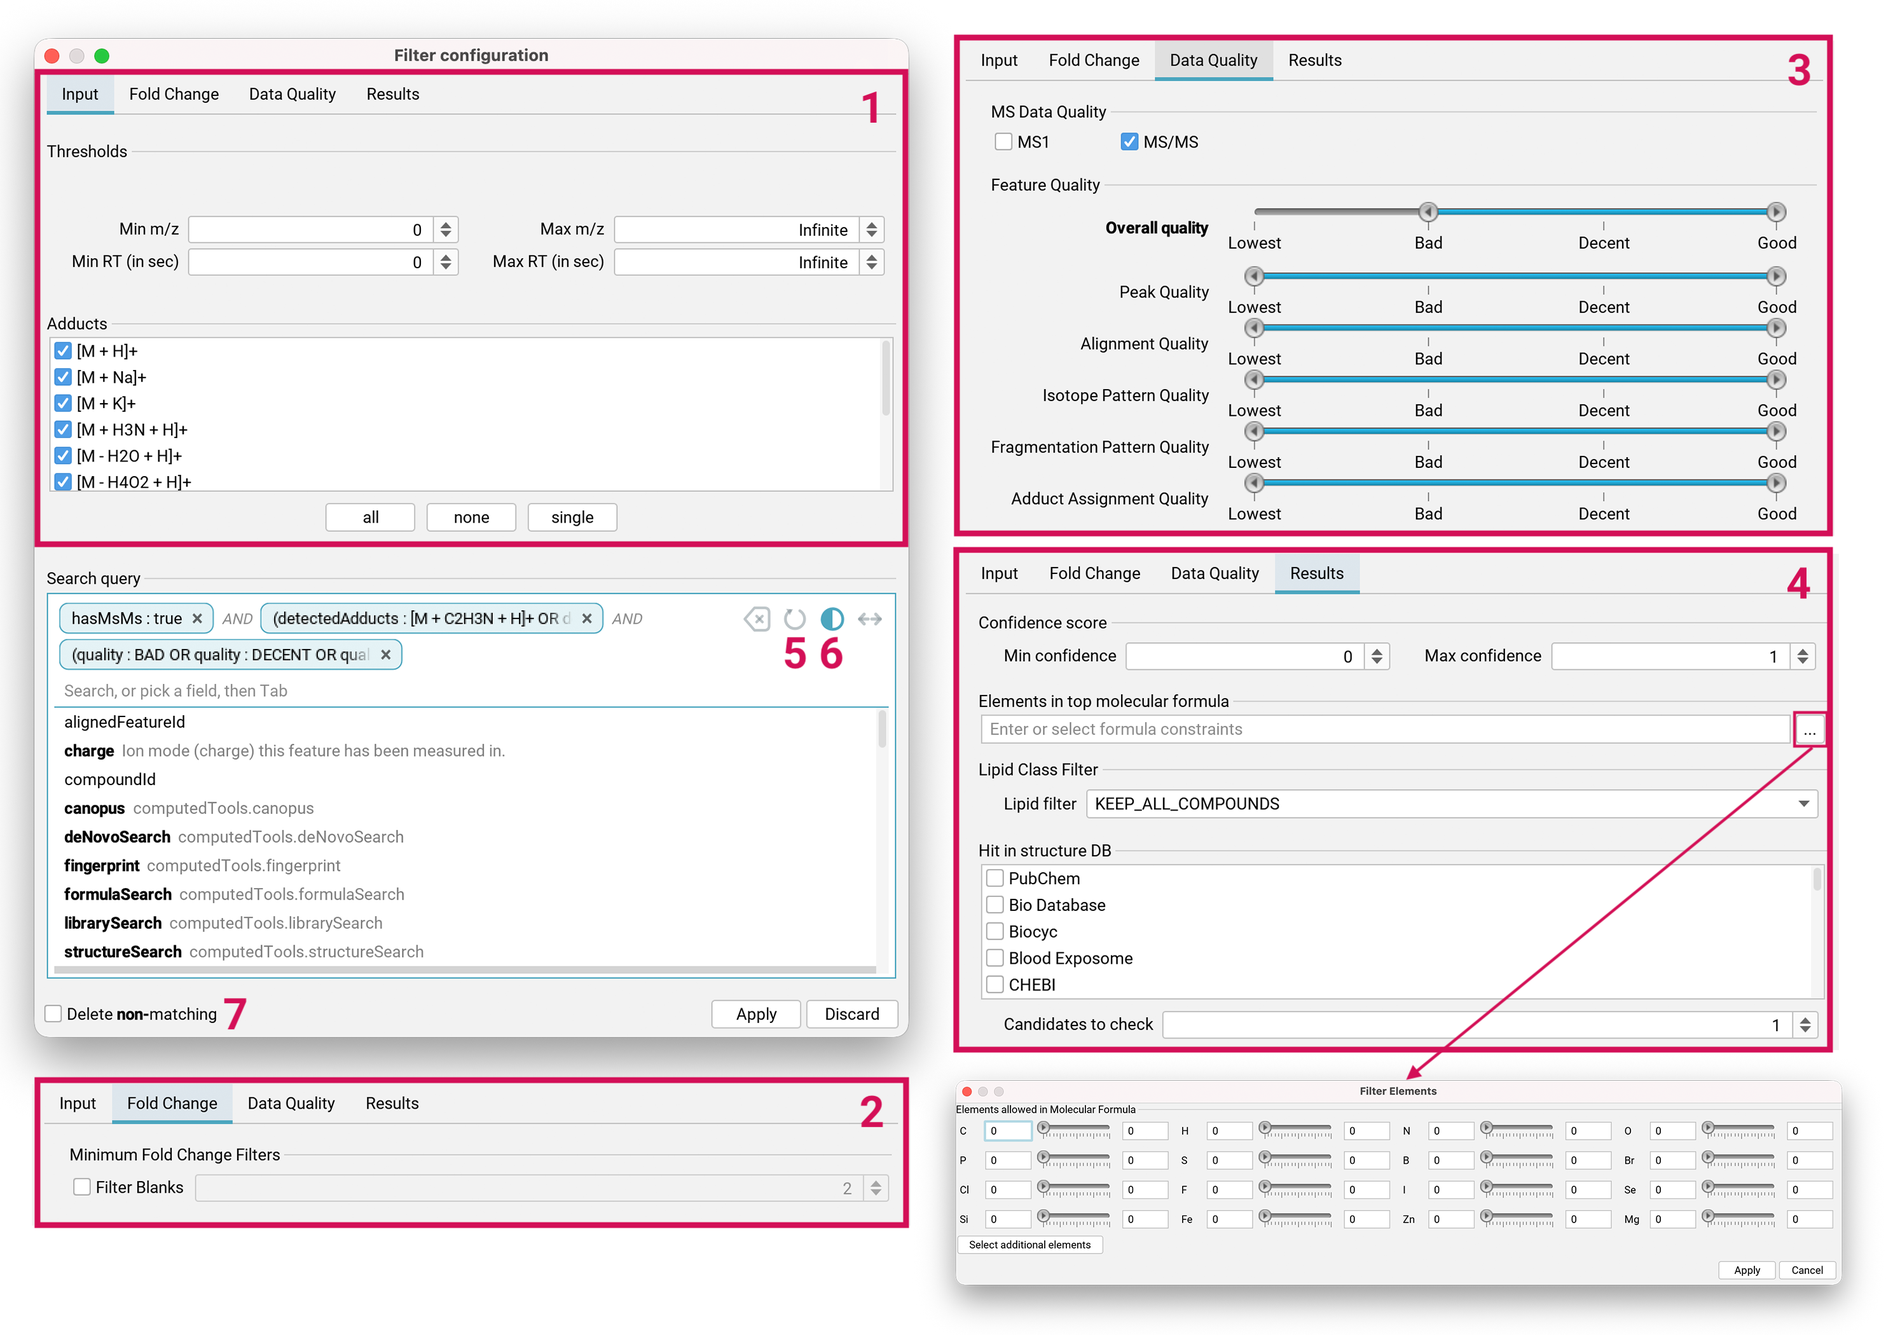
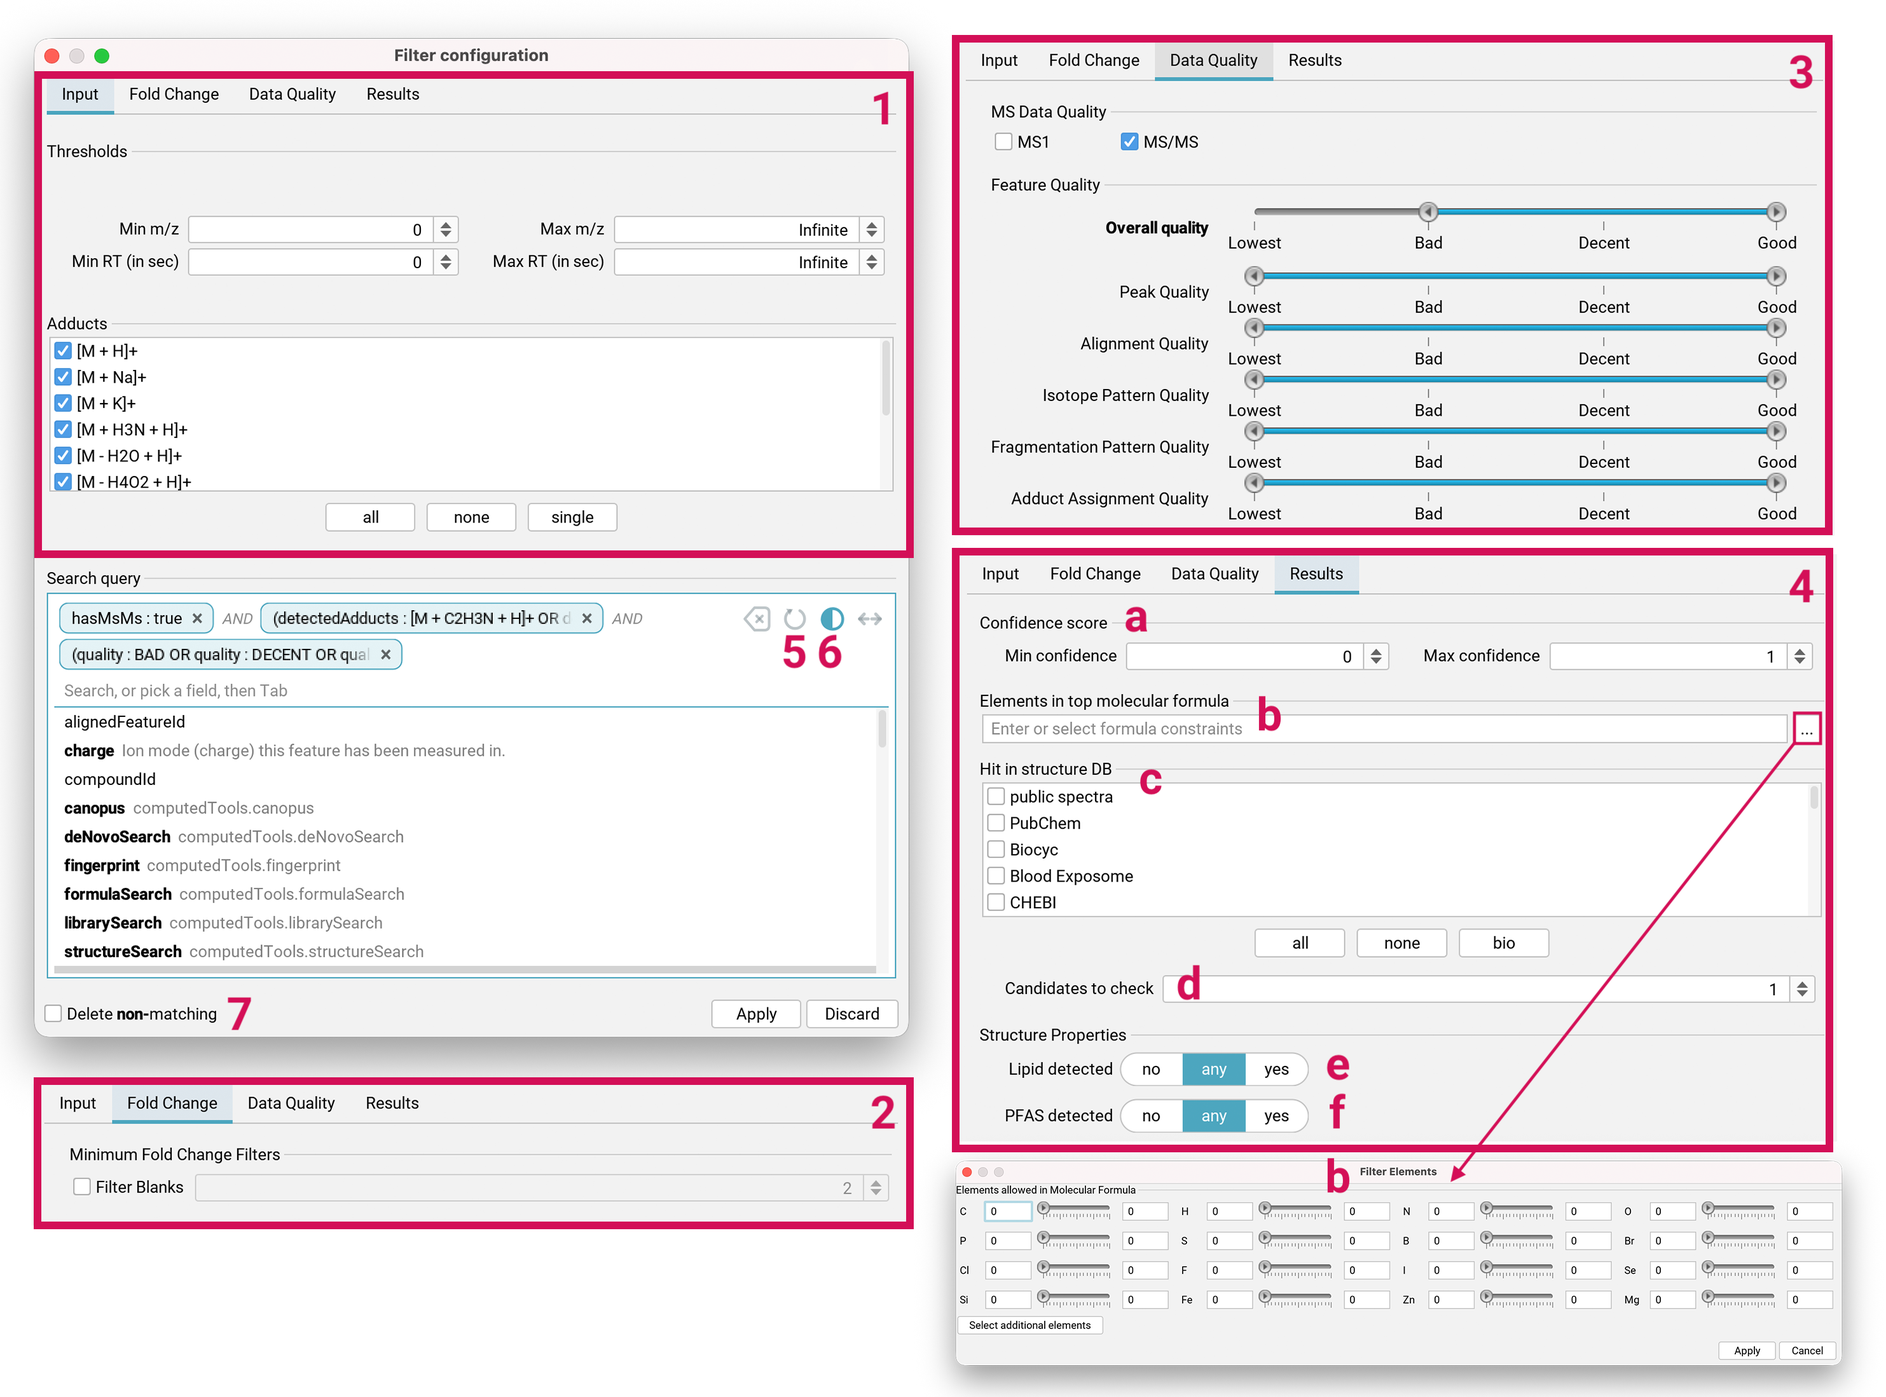
Some minor GUI updates following a review of the changelog

diff --git a/docs/_pages/gui.md b/docs/_pages/gui.md
@@ -94,7 +94,7 @@ When importing multiple `.mzml` (or `.mzxml`) at once, an import dialog will ope
 
 LC-MS runs are [pre-processed automatically]({{ "/io/#lcms-runs" | relative_url }}): SIRIUS performs feature detection and alignment using MS/MS spectra, assigns adducts and in-source losses to features via adduct detection, and [screens the raw data for strong polyfluorination signatures]({{ "/methods-background/#pfas-detection" | relative_url }}).
 
-## Sort and filter {#sort-filter}
+## Sort, filter, search {#sort-filter}
 
 To sort the feature list, use right-click to open the <span style="color:#d40f57">**[sort]**</span> dialog below.
 
@@ -106,8 +106,11 @@ used for sorting. For more details, see the [confidence modes]({{ "/methods-back
 
 <img src="{{ "/assets/images/filter-search.png" | relative_url }}">
 
-By default, the feature list is filtered to hide MS1-only, poor-quality, and multimeric features <span style="color:#d40f57">**[1]**</span>. To view all features, clear the default filter <span style="color:#d40f57">**[2]**</span>; you can restore it anytime in the [`Filter configuration` dialog]({{"/gui/#filter-dialog" | relative_url}}) <span style="color:#d40f57">**[7]**</span>.
-For fine-grained filter control, enter criteria directly into the search field <span style="color:#d40f57">**[3]**</span> or use the `Filter configuration` dialog. As you type, auto-suggestions will appear <span style="color:#d40f57">**[4]**</span>, along with syntax instructions inside the search bar. You can invert your filter  <span style="color:#d40f57">**[6]**</span> to display non-matching features, or copy your current query to the clipboard <span style="color:#d40f57">**[5]**</span>.
+By default, the feature list is filtered to hide MS1-only, poor-quality, and multimeric features <span style="color:#d40f57">**[1]**</span>. To view all features, clear the default filter <span style="color:#d40f57">**[2]**</span>; you can restore it anytime in the standard [`Filter configuration` dialog]({{"/gui/#filter-dialog" | relative_url}}) which is accessible via the funnel icon <span style="color:#d40f57">**[7]**</span>.
+For fine-grained filter control, enter criteria directly into the smart query bar <span style="color:#d40f57">**[3]**</span> located above the feature list or use the `Filter configuration` dialog. Manual panel filters and typed search queries merge into a single filter.
+The smart query bar offers auto-complete suggestions <span style="color:#d40f57">**[4]**</span> for fields, operators, and known values (e.g., adduct spellings, lipid class abbreviations, compound class ontologies, and tags), along with syntax instructions. Press `Enter` to apply.  You can invert your filter  <span style="color:#d40f57">**[6]**</span> to display non-matching features, or copy your current query to the clipboard <span style="color:#d40f57">**[5]**</span>.
+
+The search index builds automatically during [data import]({{ "/gui/#data-import" | relative_url }}) and can be rebuilt anytime from [Project Settings]({{ "gui/#settings" | relative_url }}) if out of sync. Projects created with older SIRIUS versions automatically migrate and index upon first open.
 
 ### Filter configuration dialog {#filter-dialog}
 
@@ -116,10 +119,14 @@ For fine-grained filter control, enter criteria directly into the search field <
 - In the `Input` tab <span style="color:#d40f57">**[1]**</span>, aligned features can be filtered by mass range and retention time range, as well as by specific detected adducts. 
 - In the `Fold Change` tab <span style="color:#d40f57">**[2]**</span>, you can hide signals that don't exceed a set threshold (e.g., 2x the blank level), effectively eliminating background noise and instrument. This filter requires [sample type assignment]({{"/gui/#lcms-import" | relative_url}}).
 - In the `Data Quality` tab <span style="color:#d40f57">**[3]**</span>, you can refine the preset quality filter.
-- In the `Results` tab <span style="color:#d40f57">**[4]**</span>, you can filter for confidence score range, specific element constraints in either the neutral molecular formula or precursor formula,
- as well as by detected lipid classes. If structure database results are available, you can filter for hits in specific structure databases.  `Candidates to check` allows you to specify the number of top candidates to consider.
+- In the `Results` tab <span style="color:#d40f57">**[4]**</span>, you can filter for
+  - confidence score range <span style="color:#d40f57">**[a]**</span>
+  - specific element constraints in the top molecular formula <span style="color:#d40f57">**[b]**</span>
+  - hits in specific structure databases (only if structure database search results are available) <span style="color:#d40f57">**[c]**</span>;  `Candidates to check` allows you to specify the number of top candidates to consider <span style="color:#d40f57">**[d]**</span>
+  - detected lipids <span style="color:#d40f57">**[e]**</span>; three-state selector (only lipids, no lipids, both)
+  - detected PFAS <span style="color:#d40f57">**[f]**</span>; three-state selector (only PFAS, no PFAS, both)
 
-If required, you can restore the default filter options <span style="color:#d40f57">**[5]**</span>. For all filters, you can also choose to invert the filter <span style="color:#d40f57">**[6]**</span>, and whether you want to delete all **non**-matching compounds <span style="color:#d40f57">**[7]**</span>.
+If required, you can restore the default filter options <span style="color:#d40f57">**[5]**</span>. For all filters, you can also choose to invert the filter <span style="color:#d40f57">**[6]**</span>. Deleting all **non**-matching features from a project is possible in a single step <span style="color:#d40f57">**[7]**</span>.
 
 ## Custom structure databases {#custom-databases}
 
@@ -140,7 +147,7 @@ For an individual structure database, you can either
 - or even [create candidate structures de novo](#MSNovelist-denovo-structure) (from the molecular fingerprint) when dealing with "unknown unknowns" or poorly represented analyte classes.
 
 
-### Import of custom structure databases and spectral libraries {#custom-database-import}
+### Import and export of custom structure databases and spectral libraries {#custom-database-import}
 
 Custom structure databases and spectral libraries can be added via the `Databases` dialog, accessible via the
 top center of the GUI ribbon. SIRIUS allows you to import custom structure databases and spectral libraries. Any spectral library you import also functions as a structure database. [Learn more about custom database import and supported file formats here]({{ "/io/#custom-dbs" | relative_url}}).
@@ -154,34 +161,32 @@ top center of the GUI ribbon. SIRIUS allows you to import custom structure datab
   <figcaption>Custom database dialog.</figcaption>
 </figure>
 
-Custom databases are stored as files with the `.siriusdb` extension. 
-If you already have a database with this format on your local machine, you can add it to SIRIUS by clicking the 
-`Add existing Database` button <span style="color:#d40f57">**[1]**</span> on the bottom right. To create a new custom database,
-click the `Create custom Database` button <span style="color:#d40f57">**[2]**</span>.
-You can also download a curated spectral database <span style="color:#d40f57">**[3]**</span> with public spectra from GNPS, MassBank and MsnLib for [spectral library matching](#spectral-library-matching).
+Custom databases are saved locally as `.siriusdb` files. 
+To import an existing database file, click `Add existing Database` <span style="color:#d40f57">**[1]**</span>. 
+To set up a new one, click `Create custom database` <span style="color:#d40f57">**[2]**</span>. 
+You can also download a curated spectral database <span style="color:#d40f57">**[3]**</span> containing public spectra from GNPS, MassBank, and MsnLib for [spectral library matching](#spectral-library-matching).
 
-To create a custom database, enter a name for the database <span style="color:#d40f57">**[4]**</span> (maximum length: 15 characters) that is used within SIRIUS. 
-Specify the file name for the database, ensuring it ends with `.siriusdb` <span style="color:#d40f57">**[5]**</span>. 
-Choose a valid, writeable path on your local machine to store the database <span style="color:#d40f57">**[6]**</span>.
-Adjust the buffer size <span style="color:#d40f57">**[7]**</span> to control how many structures or spectra should be kept in memory. This can be increased when importing large files on a faster machine.
-Drag and drop files or directories containing structure/spectra files to the input area <span style="color:#d40f57">**[8]**</span>, or use the `+` button to browse your file system.
+Loaded custom databases can be modified using the pencil icon <span style="color:#d40f57">**[4]**</span> or deleted using the minus (-) icon <span style="color:#d40f57">**[5]**</span>. 
+Use the database viewer <span style="color:#d40f57">**[6]**</span> to inspect molecular structures. 
+Export databases as TSV or SDF files—complete with external database links and generated transformation products <span style="color:#d40f57">**[7]**</span>. 
+Transformation products can be generated for any database using the [BioTransformer integration](#BioTransformer) <span style="color:#d40f57">**[f]**</span> (when creating a new database) or [custom reaction workflows](#reaction-workflows) <span style="color:#d40f57">**[8]**</span>.
 
-Imported databases can be deleted or modified using the `-` <span style="color:#d40f57">**[10]**</span> or pencil <span style="color:#d40f57">**[11]**</span> button, respectively. Databases can also be exported as TSV or SDF files including the generated biotransformations <span style="color:#d40f57">**[12]**</span> and links to external databases.
+To create a custom database, specify an internal SIRIUS display name <span style="color:#d40f57">**[a]**</span> (up to 15 characters), set a file name ending in `.siriusdb` <span style="color:#d40f57">**[b]**</span>, and choose a writable local directory <span style="color:#d40f57">**[c]**</span>. You can adjust the buffer size <span style="color:#d40f57">**[d]**</span> to change memory allocation for structures and spectra (increasing this value is recommended when importing large files on faster machines). Finally, load your data by dropping files or folders into the input region <span style="color:#d40f57">**[e]**</span> or clicking `+` to select them manually.
 
 **Please note that you have to be logged in to your SIRIUS account to import custom databases.**
 
 
 ### Creating bio-transformations {#BioTransformer}
 
-SIRIUS integrates [BioTransformer 3.0](https://biotransformer.ca/) <span style="color:#d40f57">**[9]**</span> ([Wishart  et al., Nucleic Acids Res, 2022](https://doi.org/10.1093/nar/gkac313)) for generating transformation products. BioTransformer is can be applied to custom structure databases during import. 
+SIRIUS integrates [BioTransformer 3.0](https://biotransformer.ca/) <span style="color:#d40f57">**[f]**</span> ([Wishart  et al., Nucleic Acids Res, 2022](https://doi.org/10.1093/nar/gkac313)) for generating transformation products. BioTransformer is can be applied to custom structure databases during import. 
 For detailed explanations of all options, please consult the official [BioTransformer documentation](https://biotransformer.ca/help). Here is only a selection:
 
-- `Metabolic Transformation` <span style="color:#d40f57">**[a]**</span>:  Coverage Options: 
+- `Metabolic Transformation`:  Coverage Options: 
   - `Phase 1 (CYP450)`: Focuses on cytochrome P450-mediated transformations. 
   - `EC-based`: Predicts transformations based on Enzyme Commission (EC) numbers. 
   - ...
   - `AllHuman`: Predicts all possible human metabolites from any applicable reaction (oxidation, reduction, deconjugation) at each step.
-- `Number of Reaction Iterations` <span style="color:#d40f57">**[c]**</span>: allows you to specify the number of transformation steps for the prediction. It is applicable for EC-based, CYP450, Phase II, and Environmental microbial biotransformers. The default value is typically 1.
+- `Number of Reaction Iterations`: allows you to specify the number of transformation steps for the prediction. It is applicable for EC-based, CYP450, Phase II, and Environmental microbial biotransformers. The default value is typically 1.
 
 ### Reaction Workflows {#reaction-workflows}
 
@@ -195,7 +200,7 @@ For detailed explanations of all options, please consult the official [BioTransf
 
 You can define custom chemical reactions and apply them to your custom structure databases.
 Select an imported custom database and open the Reaction Sketcher (gear symbol). 
-The left panel displays a list of saved reactions <span style="color:#d40f57">**[1]**</span>. Drag and drop reactions into the central workspace <span style="color:#d40f57">**[2]**</span> to build a reaction workflow.
+The left panel displays the built-in reaction library  <span style="color:#d40f57">**[1]**</span>. Drag and drop reactions into the central workspace <span style="color:#d40f57">**[2]**</span> to build a reaction workflow.
 A reaction workflow consists of sequential rows <span style="color:#d40f57">**[3]-[5]**</span> that dictate how transformations are applied.
 
 - **Row-Level Execution:** A single row can contain multiple reactions <span style="color:#d40f57">**[3]**</span>. The software applies all reactions within a row concurrently to the input structures and saves the resulting transformation products.
@@ -790,9 +795,7 @@ The selected library match is displayed as mirror spectrum, allowing for a direc
 For more information on spectral library searches in SIRIUS, please refer to the sections on [spectral library matching]({{ "/methods-background/#spectral-library-search" | relative_url }}) and [Import of Custom Structure and Spectra Databases](#custom-database-import).
 
 #### Activate spectral library results tab {#activate-library-matches-tab}
-<img src="{{ "/assets/images/activate-spectral-matches-tab.png" | relative_url }}" width="400">
-
-To additionally activate the `Library Matches` tab, go to `Settings` and check `Show "Library Matches" tab`. You will get a warning dialogue explaining the spectral library search settings:
+To additionally activate the `Library Matches` tab, [go to `Settings`](#settings) and check `Show "Library Matches" tab`. You will get a warning dialogue explaining the spectral library search settings:
 - A spectral library is also a molecular structure database. ANY hit in the spectral library can also be found via CSI:FingerID structure database search.
 - Since structure database results depend on the selected molecular formula, SIRIUS ensures that molecular structures with a formula corresponding to a good spectral library hit are considered - even if this molecular formula receives a low score, i.e. molecular structures of well-matching reference spectra are automatically included in the structure database search.
 - Structure database search is only performed on [databases selected by the user](#CSIFingerID-structure). To ensure that all your spectral libraries are considered by CSI:FingerID, select these libraries (databases) in the structure database search step.
@@ -898,26 +901,46 @@ You can access the settings dialog by clicking the `Settings` button at the top 
 
 <img src="{{ "/assets/images/settings.png" | relative_url }}">
 
-**General settings:**
+### General settings
+**Graphical User Interface:**
 - `UI Theme`: Choose your preferred display mode to reduce eye strain (requires restart).
 - `Scaling Factor`: Adjust the size of the GUI by the selected factor (requires restart).
+- `Hardware-accelerated web views`: offload embedded browser components to dedicated graphics hardware (GPU)
+
+**Display settings:**
 - `Confidence score display mode`: Sets the mode for displaying the [confidence score]({{ "/methods-background/#confidence-score-modes" | relative_url }}) (either `approximate` or `exact`). 
 - `Molecular structure display color`: Enable/disable CPK colors for all structures
 - `Show "Library Matches" tab`: The `Library Matches` can be activated here after agreeing to a warning dialogue [explaining the spectral library search settings](#activate-library-matches-tab) 
+- `Show "Homologue Series" tab`: Activate to quickly find groups of related molecules, known as homologous series.
+- `Software Tours`: Enable alls software tours again to get the help you need.
+
+**ILP solver:**
 - `Allowed solvers`: Select the [ILP solver]({{ "/install/#ILP-solvers" | relative_url }}) for SIRIUS to use in
         fragmentation tree computation. GLPK is free, while Gurobi is
         commercial but offers a free academic license.
+
+**CSI:FingerID:**
 - `Database cache`: Specifies the location of the cache directory. CSI:FingerID
         downloads candidate structures from our server and caches them
         for faster retrieval.
-- `Presets`: Open compute dialog to view and edit [computation presets](#computation-presets)
-- `REST API`: Use the button to open the API in your browser. The REST API provides the full functionality of SIRIUS and its web services as background service. It is intended as entry-point for scripting languages and software integration SDKs.
 
-**Adduct settings:**
+**Presets:**
+- `Edit Presets`: Opens compute dialog to view and edit [computation presets](#computation-presets)
+
+**REST API:**
+- `Open API in browser`: The REST API provides the full functionality of SIRIUS and its web services as background service. It is intended as entry-point for scripting languages and software integration SDKs.
+
+### Adduct settings
 Add or remove custom adducts for positive and negative ion modes.
 
-**Network settings:**
+### Network settings
+- `Enable SSL Validation`: SIRIUS validates the server's SSL/TLS certificate chain against trusted Certificate Authorities (CAs) before sending or receiving data. This ensures your communication with the web services is encrypted and protected against Man-in-the-Middle (MitM) attacks. If **disabled** SIRIUS bypasses certificate chain verification. Only uncheck this option if you are experiencing connection errors caused by an institutional firewall or proxy.
+- **Proxy Configuration:**
 SIRIUS supports using a proxy server to access our webservices by changing `Use Proxy Server` from `NONE` to `SIRIUS` and entering all required information. Your configuration will be tested when you click the save button.
+
+### Project settings
+Location and size of the currently loaded SIRIUS project. `Compact` your project, e.g. by permanently removing deleted features. `Rebuild Search Index` if out of sync. 
+
 
 ## Webservice {#webservice}
 
